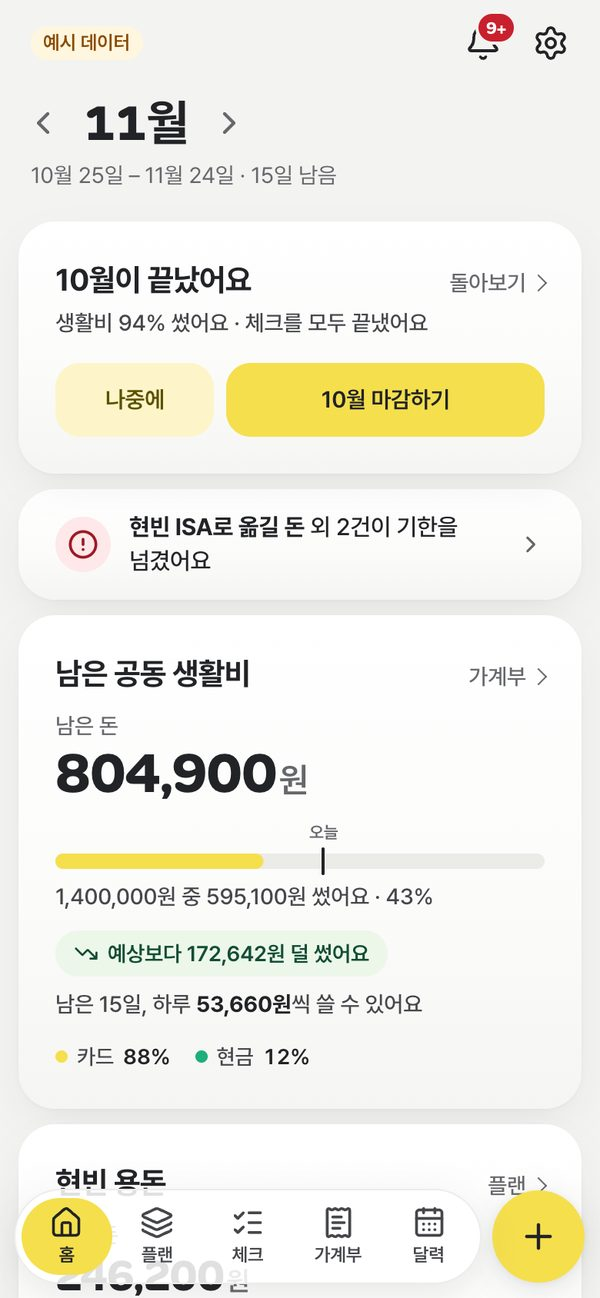
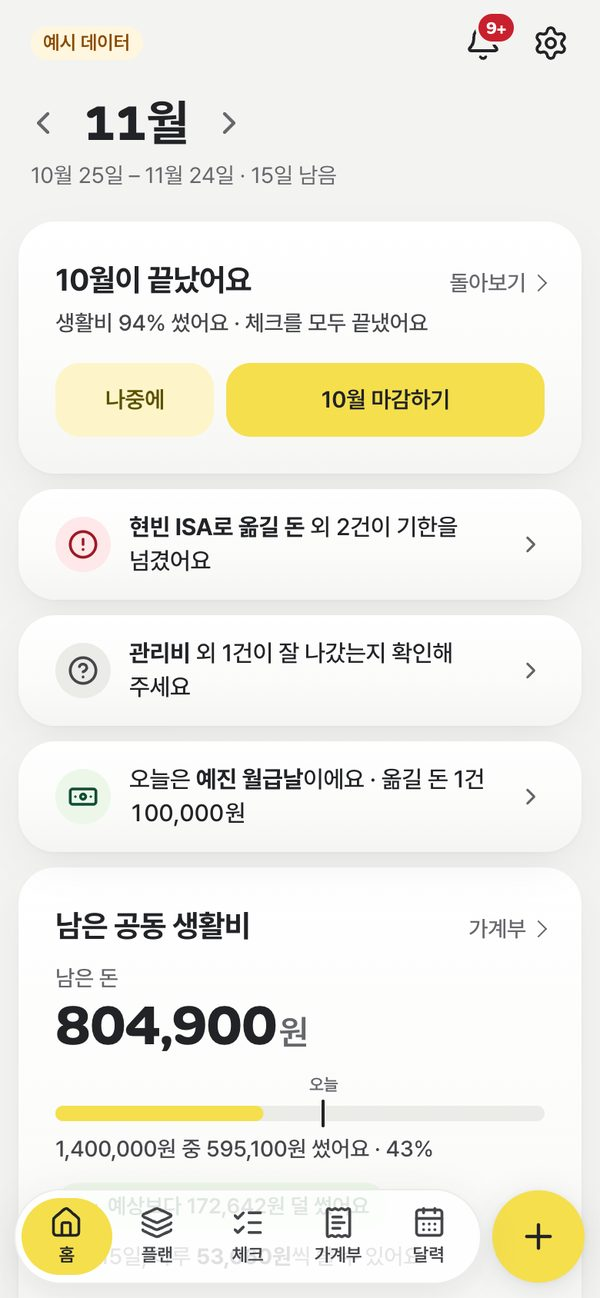
홈 알림을 토스처럼 하나씩 도착하게 — 작은 색 점이 알약을 지나 카드로, 먼저 온 알림은 아래로
- 알림을 하나만 고르던 것을 중요한 순 최대 3개로(기한 넘김 · 확인 부탁 · 오늘 월급날/옮길 돈 · 모두 마침 ·
  생활비 빠름 · 다음 월급날). Nudges 컴포넌트가 덜 중요한 것부터 250ms 뒤·700ms 간격으로 맨 위에 하나씩 넣는다
- 도착 820ms: clip-path 로 12px 점(알림 색) → 44px 알약 → 카드, 색은 카드 바탕으로 바래고 글은 560ms 에 떠오름
- 먼저 온 알림과 아래 카드는 Morph(enter=false) 의 FLIP·상자 높이로 dur-tab·ease-drawer 만큼 내려감
- 앱을 켜 둔 동안 한 번 도착한 알림 종류는 다시 움직이지 않음, 움직임 줄이기면 바로 보임
- 새 컴포넌트 문서·미리보기(Nudges), 디자인 README, DESIGN.md, 변경기록, 스크린샷 2장

diff --git a/apps/web/src/app/page.tsx b/apps/web/src/app/page.tsx
@@ -1,7 +1,7 @@
 "use client";
 
 import Link from "next/link";
-import { ArrowRightLeft, Banknote, CalendarClock, ChevronRight, CircleAlert, CircleCheck, CircleHelp, TrendingUp, type LucideIcon } from "lucide-react";
+import { ArrowRightLeft, Banknote, CalendarClock, CircleAlert, CircleCheck, CircleHelp, TrendingUp } from "lucide-react";
 import { useData } from "@/lib/store";
 import type { Spending } from "@/lib/types";
 import { allowanceStatus, cardBills, livingStatus, nameOf, spendingsIn } from "@/lib/calc";
@@ -19,17 +19,10 @@ import { MiniCard } from "@/components/pass";
 import { usePrimaryAction, useSheets } from "@/components/Shell";
 import { ClosePrompt } from "@/components/ClosePrompt";
 import { Morph } from "@/components/Morph";
+import { Nudges, type Nudge } from "@/components/Nudges";
 
 /** 홈에 보이는 할 일 수 — 급한 순으로 이만큼만, 나머지는 체크 화면에서 */
 const HOME_TODOS = 3;
-
-/** 홈 맨 위 알림 카드 하나 — 색은 상태 알약과 같은 네 가지 */
-interface Nudge {
-  tone: "negative" | "warning" | "positive" | "neutral";
-  icon: LucideIcon;
-  href: string;
-  text: React.ReactNode;
-}
 
 export default function Home() {
   const { data, month, today, me } = useData();
@@ -63,10 +56,12 @@ export default function Home() {
     data.categories.find((c) => c.id === id)?.name ?? (owner === "joint" ? "미분류" : `${nameOf(s, owner)} 용돈`);
   const accName = (id: string | null) => data.accounts.find((a) => a.id === id)?.name;
 
-  // 이번 달에 가장 먼저 알아야 할 것 하나 — 화면 머리 문장 대신 맨 위 알림 카드(토스 홈의 알림 줄처럼). 할 일 카드와 겹치는 "남은 할 일 N건"이면 두지 않는다
-  let nudge: Nudge | null = null;
+  // 지금 알아야 할 것들 — 화면 머리 문장 대신 맨 위 알림 카드(토스 알림처럼 하나씩 도착). 중요한 순, 최대 3개.
+  // 할 일 카드와 겹치는 "남은 할 일 N건"뿐이면 알림을 두지 않는다
+  const nudges: Nudge[] = [];
   if (overdue.length > 0) {
-    nudge = {
+    nudges.push({
+      key: "overdue",
       tone: "negative",
       icon: CircleAlert,
       href: "/check",
@@ -76,10 +71,12 @@ export default function Home() {
           {overdue.length > 1 ? ` 외 ${overdue.length - 1}건이` : iga(overdue[0].kind === "transfer" ? "돈" : overdue[0].title).slice(-1)} 기한을 넘겼어요
         </>
       ),
-    };
-  } else if (asks.length > 0) {
+    });
+  }
+  if (asks.length > 0) {
     // 자동으로 나가는 돈은 다그치지 않고 확인만 부탁한다
-    nudge = {
+    nudges.push({
+      key: "asks",
       tone: "neutral",
       icon: CircleHelp,
       href: "/check",
@@ -89,10 +86,12 @@ export default function Home() {
           {asks.length > 1 ? ` 외 ${asks.length - 1}건이` : iga(asks[0].title).slice(-1)} 잘 나갔는지 확인해 주세요
         </>
       ),
-    };
-  } else if (paydayToday) {
+    });
+  }
+  if (paydayToday) {
     const left = paydayToday.transfers.filter((t) => !t.done);
-    nudge = {
+    nudges.push({
+      key: "payday",
       tone: "positive",
       icon: Banknote,
       href: "/check",
@@ -101,9 +100,10 @@ export default function Home() {
           오늘은 <strong>{nameOf(s, paydayToday.person)} 월급날</strong>이에요 · 옮길 돈 {left.length}건 <Money value={left.reduce((a, t) => a + t.amount, 0)} />
         </>
       ),
-    };
+    });
   } else if (pendingTransfers.length > 0) {
-    nudge = {
+    nudges.push({
+      key: "transfers",
       tone: "neutral",
       icon: ArrowRightLeft,
       href: "/check",
@@ -112,11 +112,12 @@ export default function Home() {
           옮길 돈 <strong>{pendingTransfers.length}건</strong>이 남았어요 · <Money value={pendingTransfers.reduce((a, t) => a + t.amount, 0)} />
         </>
       ),
-    };
-  } else if (open.length === 0 && tasks.length > 0) {
-    nudge = { tone: "positive", icon: CircleCheck, href: "/check", text: <>이번 달 이체와 납부를 모두 마쳤어요</> };
-  } else if (living.pace !== null && living.spent > living.pace) {
-    nudge = {
+    });
+  }
+  if (open.length === 0 && tasks.length > 0) nudges.push({ key: "done", tone: "positive", icon: CircleCheck, href: "/check", text: <>이번 달 이체와 납부를 모두 마쳤어요</> });
+  if (living.pace !== null && living.spent > living.pace) {
+    nudges.push({
+      key: "pace",
       tone: "warning",
       icon: TrendingUp,
       href: "/ledger",
@@ -125,9 +126,12 @@ export default function Home() {
           생활비가 예상보다 <strong>{num(living.spent - living.pace)}원</strong> 빨리 나가고 있어요
         </>
       ),
-    };
-  } else if (nextPayday && nextPayday.transfers.some((t) => !t.done)) {
-    nudge = {
+    });
+  }
+  // 다음 월급날은 옮길 돈 알림이 없을 때만 (같은 이야기)
+  if (!paydayToday && pendingTransfers.length === 0 && nextPayday && nextPayday.transfers.some((t) => !t.done)) {
+    nudges.push({
+      key: "next-payday",
       tone: "neutral",
       icon: CalendarClock,
       href: "/check",
@@ -136,7 +140,7 @@ export default function Home() {
           다음은 <strong>{nameOf(s, nextPayday.person)} 월급날</strong> {shortDate(nextPayday.date)} · {dDay(nextPayday.date, today)}
         </>
       ),
-    };
+    });
   }
 
   return (
@@ -149,15 +153,7 @@ export default function Home() {
           <Morph className="close-slot" track=":scope > *">
             <ClosePrompt />
           </Morph>
-          {nudge && (
-            <Link href={nudge.href} className={`card nudge ${nudge.tone}`}>
-              <span className="ic" aria-hidden="true">
-                <nudge.icon />
-              </span>
-              <span className="t">{nudge.text}</span>
-              <ChevronRight className="chev" aria-hidden="true" />
-            </Link>
-          )}
+          <Nudges items={nudges.slice(0, 3)} />
           <BudgetCard id="living-h" className="o1" bucket="living" title="남은 공동 생활비" status={living} link={{ href: "/ledger", label: "가계부" }} />
 
           <BudgetCard

diff --git a/apps/web/src/components/Nudges.tsx b/apps/web/src/components/Nudges.tsx
@@ -1,0 +1,100 @@
+"use client";
+
+import { useEffect, useLayoutEffect, useRef, useState } from "react";
+import Link from "next/link";
+import { ChevronRight, type LucideIcon } from "lucide-react";
+import { Morph, still } from "./Morph";
+
+/** 홈 맨 위 알림 하나 — 색은 상태 알약과 같은 네 가지 (docs/design-system/components/Nudges) */
+export interface Nudge {
+  /** 알림 종류 — 앱에서 한 번 뜬 종류는 탭을 다시 열어도 다시 뜨는 움직임 없이 그대로 있다 */
+  key: string;
+  tone: "negative" | "warning" | "positive" | "neutral";
+  icon: LucideIcon;
+  href: string;
+  text: React.ReactNode;
+}
+
+/** 이미 뜬 알림 종류 (앱을 켜 둔 동안) */
+const played = new Set<string>();
+
+/** 알림이 하나씩 도착하는 간격과 첫 알림까지의 기다림 (ms) */
+const FIRST = 250;
+const NEXT = 700;
+
+/**
+ * 토스 알림처럼 하나씩 도착하는 알림 카드들.
+ * items 는 중요한 순(맨 위가 가장 중요). 덜 중요한 것부터 차례로 도착해, 새 알림은 맨 위에 작은 점으로 떠서 카드로 커지고
+ * 먼저 와 있던 알림은 그만큼 아래로 내려간다(Morph 의 FLIP). 그래서 다 도착하면 가장 중요한 알림이 맨 위에 있다.
+ * 움직임 줄이기면 모두 바로 보인다.
+ */
+export function Nudges({ items }: { items: Nudge[] }) {
+  const [fresh, setFresh] = useState<string[]>([]);
+  const sig = items.map((n) => n.key).join("|");
+
+  useEffect(() => {
+    const queue = (sig ? sig.split("|") : []).reverse().filter((k) => !played.has(k));
+    if (queue.length === 0) return;
+    const calm = still();
+    const timers = queue.map((k, i) =>
+      window.setTimeout(
+        () => {
+          played.add(k);
+          setFresh((f) => [...f, k]);
+        },
+        calm ? 0 : FIRST + i * NEXT,
+      ),
+    );
+    return () => timers.forEach((t) => window.clearTimeout(t));
+  }, [sig]);
+
+  const shown = items.filter((n) => played.has(n.key) || fresh.includes(n.key));
+  return (
+    <Morph className="nudges" track=":scope > *" enter={false}>
+      {shown.map((n) => (
+        <NudgeCard key={n.key} n={n} grow={fresh.includes(n.key)} />
+      ))}
+    </Morph>
+  );
+}
+
+/** 점 → 알약 → 카드. 모양은 clip-path 로만 바꿔 안의 글자가 늘어나 보이지 않게 하고, 글자는 카드가 거의 다 펴졌을 때 떠오른다 */
+function NudgeCard({ n, grow }: { n: Nudge; grow: boolean }) {
+  const el = useRef<HTMLAnchorElement>(null);
+  const once = useRef(grow);
+  useLayoutEffect(() => {
+    const card = el.current;
+    if (!once.current || !card || still()) return;
+    once.current = false;
+    const cs = getComputedStyle(card);
+    const r = cs.borderTopLeftRadius || "24px";
+    const dot = "inset(calc(50% - 6px) calc(50% - 6px) round 999px)";
+    // 점이 톡 나타나 잠깐 머물고 → 옆으로 펴져 알약 → 아래위로 펴져 카드
+    card.animate(
+      [
+        { clipPath: dot, transform: "scale(0.6)", opacity: 0 },
+        { clipPath: dot, transform: "scale(1)", opacity: 1, offset: 0.14 },
+        { clipPath: dot, transform: "scale(1)", offset: 0.26 },
+        { clipPath: "inset(calc(50% - 22px) 0 round 999px)", transform: "scale(0.985)", offset: 0.58 },
+        { clipPath: `inset(0 round ${r})`, transform: "none" },
+      ],
+      { duration: 820, easing: "cubic-bezier(0.32, 0.72, 0, 1)" },
+    );
+    // 점은 알림 색(빨강·주황·초록·회색)으로 보이다가 카드가 펴지며 카드 바탕으로 바뀐다
+    card.querySelector(".nudge-dot")?.animate([{ opacity: 1 }, { opacity: 1, offset: 0.3 }, { opacity: 0, offset: 0.62 }, { opacity: 0 }], { duration: 820, easing: "ease-out" });
+    for (const c of card.querySelectorAll(":scope > :not(.nudge-dot)")) {
+      (c as HTMLElement).animate([{ opacity: 0, transform: "translateY(4px)" }, { opacity: 1, transform: "none" }], { duration: 240, delay: 560, easing: "ease-out", fill: "backwards" });
+    }
+  }, []);
+  const Icon = n.icon;
+  return (
+    <Link ref={el} href={n.href} className={`card nudge ${n.tone}`}>
+      <span className="nudge-dot" aria-hidden="true" />
+      <span className="ic" aria-hidden="true">
+        <Icon />
+      </span>
+      <span className="t">{n.text}</span>
+      <ChevronRight className="chev" aria-hidden="true" />
+    </Link>
+  );
+}

diff --git a/docs/design-system/components/Nudges/preview.html b/docs/design-system/components/Nudges/preview.html
@@ -1,0 +1,58 @@
+<!-- @dsCard group="Cards" height=300 subtitle="홈 알림 — 작은 점이 커져 카드가 되고, 새 알림이 오면 먼저 온 알림이 내려가요 (다시 보기를 누르세요)" -->
+<link rel="stylesheet" href="https://fonts.googleapis.com/css2?family=Alan+Sans:wght@300..900&family=Noto+Sans+KR:wght@400..800&display=swap">
+<style>
+  body { margin: 0; background: var(--ground); color: var(--text); font-family: var(--font-text); word-break: keep-all; -webkit-font-smoothing: antialiased; }
+  .stage { max-width: 390px; padding: 20px; }
+  .stack { display: grid; gap: 10px; }
+  .n { position: relative; display: grid; grid-template-columns: 36px 1fr 18px; align-items: center; gap: 12px; padding: 14px 20px; border-radius: var(--radius-card); background: var(--surface); box-shadow: var(--shadow-card); font: 500 15.5px/22px var(--font-text); }
+  .n b { font-weight: 700; }
+  .ic { display: grid; place-items: center; width: 36px; height: 36px; border-radius: 999px; font-weight: 700; }
+  .neg .ic { background: var(--pill-negative-bg); color: var(--pill-negative-ink); }
+  .neu .ic { background: var(--pill-neutral-bg); color: var(--pill-neutral-ink); }
+  .pos .ic { background: var(--pill-positive-bg); color: var(--pill-positive-ink); }
+  .dot { position: absolute; inset: 0; border-radius: inherit; opacity: 0; }
+  .neg .dot { background: var(--negative); } .neu .dot { background: var(--pill-neutral-ink); } .pos .dot { background: var(--pill-positive-ink); }
+  .chev { color: var(--faint); }
+  button.again { margin-top: 14px; height: 36px; padding: 0 14px; border: 0; border-radius: 999px; background: var(--well); color: var(--muted); font: 600 13.5px var(--font-text); }
+</style>
+<div class="stage">
+  <div class="stack" id="s"></div>
+  <button class="again" type="button" id="a">다시 보기</button>
+</div>
+<script>
+  const N = [
+    ["neg", "!", "<b>현빈 ISA로 옮길 돈</b> 외 2건이 기한을 넘겼어요"],
+    ["neu", "?", "<b>관리비</b> 외 1건이 잘 나갔는지 확인해 주세요"],
+    ["pos", "₩", "오늘은 <b>예진 월급날</b>이에요 · 옮길 돈 1건"],
+  ];
+  const s = document.getElementById("s");
+  let timers = [];
+  function arrive(n) {
+    const el = document.createElement("div");
+    el.className = "n " + n[0];
+    el.innerHTML = `<span class="dot"></span><span class="ic">${n[1]}</span><span>${n[2]}</span><span class="chev">›</span>`;
+    const before = [...s.children].map((c) => c.getBoundingClientRect().top);
+    s.prepend(el);
+    [...s.children].slice(1).forEach((c, i) => {
+      const d = before[i] - c.getBoundingClientRect().top;
+      c.animate([{ transform: `translateY(${d}px)` }, { transform: "none" }], { duration: 420, easing: "cubic-bezier(0.32, 0.72, 0, 1)" });
+    });
+    const dot = "inset(calc(50% - 6px) calc(50% - 6px) round 999px)";
+    el.animate([
+      { clipPath: dot, transform: "scale(0.6)", opacity: 0 },
+      { clipPath: dot, transform: "scale(1)", opacity: 1, offset: 0.14 },
+      { clipPath: dot, offset: 0.26 },
+      { clipPath: "inset(calc(50% - 22px) 0 round 999px)", transform: "scale(0.985)", offset: 0.58 },
+      { clipPath: "inset(0 round 24px)", transform: "none" },
+    ], { duration: 820, easing: "cubic-bezier(0.32, 0.72, 0, 1)" });
+    el.querySelector(".dot").animate([{ opacity: 1 }, { opacity: 1, offset: 0.3 }, { opacity: 0, offset: 0.62 }, { opacity: 0 }], { duration: 820 });
+    [...el.children].slice(1).forEach((c) => c.animate([{ opacity: 0, transform: "translateY(4px)" }, { opacity: 1, transform: "none" }], { duration: 240, delay: 560, fill: "backwards" }));
+  }
+  function play() {
+    timers.forEach(clearTimeout);
+    s.innerHTML = "";
+    timers = [...N].reverse().map((n, i) => setTimeout(() => arrive(n), 250 + i * 700));
+  }
+  document.getElementById("a").onclick = play;
+  play();
+</script>

diff --git a/apps/web/src/app/cards.css b/apps/web/src/app/cards.css
@@ -239,8 +239,11 @@
 .highlight .reward b { font: 700 20px/28px var(--font-display); font-variant-numeric: tabular-nums; }
 .highlight .reward > span { color: var(--faint); font: 500 14.5px/20px var(--font-text); }
 
-/* ---------- 홈 맨 위 알림 카드 (Nudge): 화면 머리 문장 대신. 아이콘 원 · 한 줄 · › ---------- */
-.nudge { display: grid; grid-template-columns: 36px minmax(0, 1fr) 18px; align-items: center; gap: 12px; padding-block: 14px; color: var(--text); transition: transform var(--dur-press) var(--ease-press); }
+/* ---------- 홈 맨 위 알림 (Nudges): 화면 머리 문장 대신. 아이콘 원 · 한 줄 · ›, 토스 알림처럼 하나씩 도착 ----------
+   빈 자리는 칸 간격까지 0 (close-slot 과 같은 방식): 알림이 오면 그만큼 아래 카드가 내려간다 */
+.nudges { display: flow-root; margin-bottom: calc(var(--gap) * -1); }
+.nudges > .nudge { margin-bottom: var(--gap); }
+.nudge { position: relative; display: grid; grid-template-columns: 36px minmax(0, 1fr) 18px; align-items: center; gap: 12px; padding-block: 14px; color: var(--text); transition: transform var(--dur-press) var(--ease-press); }
 .nudge:active { transform: scale(0.98); }
 .nudge .ic { display: grid; place-items: center; width: 36px; height: 36px; border-radius: var(--radius-chip); background: var(--pill-neutral-bg); color: var(--pill-neutral-ink); }
 .nudge .ic svg { width: 20px; height: 20px; stroke-width: 2.2; }
@@ -250,6 +253,11 @@
 .nudge .t { font: 500 15.5px/22px var(--font-text); letter-spacing: -0.01em; }
 .nudge .t strong { font-weight: 700; }
 .nudge .chev { width: 18px; height: 18px; color: var(--faint); }
+/* 도착할 때 점의 색 (평소엔 보이지 않음) */
+.nudge-dot { position: absolute; inset: 0; border-radius: inherit; background: var(--pill-neutral-ink); opacity: 0; pointer-events: none; }
+.nudge.negative .nudge-dot { background: var(--negative); }
+.nudge.warning .nudge-dot { background: var(--pill-warning-ink); }
+.nudge.positive .nudge-dot { background: var(--pill-positive-ink); }
 @media (prefers-reduced-motion: reduce) {
   .nudge { transition: none; }
 }

diff --git a/docs/design-system/components/Nudges/README.md b/docs/design-system/components/Nudges/README.md
@@ -1,0 +1,35 @@
+# Nudges — 홈 맨 위 알림
+
+홈 화면 머리 문장 대신, 지금 알아야 할 것을 **토스 알림처럼 하나씩 도착하는 카드**로 보여 줍니다. 화면 머리에는 달과 기간만 둡니다(README "글자").
+
+## 무엇을 띄우나 (중요한 순, 최대 3개)
+| 알림 | 색 | 아이콘 | 누르면 |
+|---|---|---|---|
+| "현빈 ISA로 옮길 돈 외 2건이 기한을 넘겼어요" | `negative` | `CircleAlert` | 체크 |
+| "관리비 외 1건이 잘 나갔는지 확인해 주세요" (자동 납부) | `neutral` | `CircleHelp` | 체크 |
+| "오늘은 예진 월급날이에요 · 옮길 돈 1건 100,000원" | `positive` | `Banknote` | 체크 |
+| 월급날이 아니면 "옮길 돈 2건이 남았어요 · 600,000원" | `neutral` | `ArrowRightLeft` | 체크 |
+| "이번 달 이체와 납부를 모두 마쳤어요" | `positive` | `CircleCheck` | 체크 |
+| "생활비가 예상보다 120,000원 빨리 나가고 있어요" | `warning` | `TrendingUp` | 가계부 |
+| 옮길 돈 알림이 없을 때만 "다음은 현빈 월급날 11/25 · D-15" | `neutral` | `CalendarClock` | 체크 |
+
+할 일 카드와 겹치는 "남은 할 일 N건"뿐이면 알림을 두지 않습니다.
+
+## 카드
+- 흰 카드(`surface-card`, `shadow-card`), 위아래 14px. 아이콘 원(36px, 상태 알약과 같은 `pill-*-bg` 바탕·`pill-*-ink` 아이콘) · 한 줄(15.5px/500, 강조는 700) · `ChevronRight`(`faint`).
+- 카드 사이와 아래 카드까지는 `gap`. 알림이 없으면 자리와 간격까지 0입니다(ClosePrompt와 같은 방식).
+
+## 도착
+1. 덜 중요한 알림부터 차례로 도착합니다(첫 알림은 250ms 뒤, 다음은 700ms 간격). 새 알림은 늘 맨 위에 생기므로 다 도착하면 가장 중요한 알림이 맨 위입니다.
+2. **점 → 알약 → 카드 (820ms):** 카드 가운데에 알림 색(빨강·주황·초록·회색)의 12px 점이 톡 나타나 잠깐 머물고(0–26%), 옆으로 펴져 44px 알약이 되고(58%), 아래위로 펴져 카드가 됩니다. 모양은 `clip-path`로만 바꿔 글자가 늘어나 보이지 않습니다. 색은 카드가 펴지며 카드 바탕으로 바래고(30–62%), 아이콘과 글은 거의 다 펴졌을 때(560ms) 4px 아래에서 떠오릅니다.
+3. **먼저 온 알림은 아래로:** 새 알림 자리만큼 먼저 온 알림과 아래 카드들이 `dur-tab`·`ease-drawer`로 내려갑니다(`Morph`의 FLIP과 상자 높이).
+4. 앱을 켜 둔 동안 한 번 도착한 알림 종류는 탭을 다시 열어도 다시 움직이지 않고 그대로 있습니다. 사라진 알림은 `Morph`가 흐리게 지우고 아래 알림이 올라옵니다.
+5. 움직임 줄이기면 모두 바로 보입니다.
+
+## 하지 말 것
+- 알림을 4개 이상 쌓지 않습니다.
+- 점·알약 단계에서 글자를 보이지 않습니다(늘어나 보임).
+- 같은 알림을 탭을 열 때마다 다시 도착시키지 않습니다.
+
+## 앱
+- `components/Nudges.tsx`(목록·도착 순서), 고르는 규칙은 `app/page.tsx`, 스타일은 `app/cards.css`의 `.nudges`·`.nudge`.

diff --git a/docs/design-system/README.md b/docs/design-system/README.md
@@ -93,7 +93,7 @@
   - **돈의 방향은 부호로 씁니다(토스·은행 앱처럼):** 지출 한 건과 나갈 돈(카드값·고정비·저축 이체) 줄은 `−89,000원`(글자색 그대로), 들어올 돈(월급날)은 `+3,800,000원`을 `positive`로 씁니다. 달력 칸의 월급날도 `+380만`을 `positive`로 둡니다. 합계·예산·남은 돈처럼 방향이 아닌 양은 부호 없이 씁니다.
 - 답 숫자 뒤의 "원"은 숫자의 0.62em, 굵기 600, `faint`입니다.
 - 한글은 `word-break: keep-all`로 단어째 줄을 바꿉니다.
-- 제목은 `large-title` → 기간 줄 `subhead`(`faint`)입니다. **결론은 화면 머리에 문장으로 띄우지 않고 첫 카드 안에** 둡니다(토스·뱅크샐러드의 요약 카드처럼): 체크는 요약 카드(남은 건수), 플랜은 "월급이 나뉘는 곳"(수입과 남은 돈), 가계부는 누적 지출 카드. 머리 문장은 카드 밖이라 글자 폭만큼만 차지해 아래 카드들과 줄이 맞지 않습니다. 홈은 "지금 가장 먼저 알아야 할 것" 하나를 맨 위 **알림 카드**(아이콘 원 · 한 줄 · ›)로 둡니다: 기한 넘긴 일(`negative`, `CircleAlert`) → 잘 나갔는지 확인(`neutral`, `CircleHelp`) → 오늘 월급날(`positive`, `Banknote`) → 옮길 돈 남음(`neutral`) → 모두 마침(`positive`) → 생활비 빠름(`warning`, `TrendingUp`, 가계부로) → 다음 월급날(`neutral`) 순서로 하나만 고르고, 누르면 체크(생활비는 가계부)로 갑니다. 아이콘 원 색은 상태 알약(`pill-*-bg`·`pill-*-ink`)과 같습니다. 할 일 카드와 겹치는 "남은 할 일 N건"뿐이면 카드를 두지 않습니다.
+- 제목은 `large-title` → 기간 줄 `subhead`(`faint`)입니다. **결론은 화면 머리에 문장으로 띄우지 않고 첫 카드 안에** 둡니다(토스·뱅크샐러드의 요약 카드처럼): 체크는 요약 카드(남은 건수), 플랜은 "월급이 나뉘는 곳"(수입과 남은 돈), 가계부는 누적 지출 카드. 머리 문장은 카드 밖이라 글자 폭만큼만 차지해 아래 카드들과 줄이 맞지 않습니다. 홈은 지금 알아야 할 것들을 맨 위 **알림 카드**(아이콘 원 · 한 줄 · ›)로 둡니다. 토스 알림처럼 하나씩 도착하고, 작은 점이 커져 카드가 되며, 새 알림이 오면 먼저 온 알림이 아래로 내려갑니다([Nudges](components/Nudges/README.md)).
 - 자주 안 쓰는 화면 단위 행동(예: 플랜 "다른 달에서 항목 가져오기")은 머리에 버튼으로 두지 않고 화면 맨 아래 한 줄 카드(아이콘 · 제목 · 설명 · ›)로 둡니다.
 - **웹 앱에서 Alan Sans 쓰기:** `font-src 'self'` CSP 때문에 Google Fonts에서 직접 불러올 수 없습니다. 앱은 숫자·영문·돈 기호(−, –, ·, ×)만 남긴 woff2(24KB, 굵기 300–900 가변, `tnum` 포함)를 `/fonts/alan-sans/`에 두고 미리 불러옵니다(SIL OFL 1.1). 이 가이드의 미리보기는 Google Fonts에서 불러옵니다.
 

diff --git a/CHANGELOG.md b/CHANGELOG.md
@@ -16,7 +16,7 @@
 - 플랜 "월급이 나뉘는 곳"은 원형 그래프 대신 **수입을 큰 숫자로** 쓰고, 그 아래 한 줄로 쌓은 막대(주황 고정비 · 노랑 생활비 · 파랑 용돈 · 초록 저축 · 회색 남음)와 금액 목록을 둬요. 이름을 누르면 막대에서 그 조각만 남고 항목이 펼쳐져요. "모으는 목표" 막대와 달력 모아 보기의 할 일 막대(초록이던 것)도 예산 막대와 같은 노랑 막대로 맞췄고, 기간 모아 보기의 "이 기간 쓴 돈" 카드는 그라데이션 없이 옅은 노랑 한 색이에요.
 - 체크와 플랜 맨 위가 토스·뱅크샐러드처럼 바뀌었어요. 화면 머리에는 달과 기간만 두고, 체크는 첫 카드에 **"11건 남았어요"**와 막대, 남은 묶음 줄(옮길 돈 2건 · 600,000원 ›…)을 둬요 — 줄을 누르면 그 카드로 내려가요. 플랜은 "월급이 나뉘는 곳" 카드가 "926,100원 남았어요"를 말하고, "다른 달에서 불러오기"는 화면 맨 아래 한 줄 카드 "다른 달에서 항목 가져오기"로 옮겼어요.
 - 홈 "이번 달 할 일"이 체크 요약과 같은 모양이 됐어요: 큰 숫자 **"11건 남았어요"**와 막대, 기한 지난 일 한 줄, 그리고 급한 순 **3건만** 보여요(전엔 6건). 나머지는 맨 아래 "남은 일 11건 모두 보기 ›"로 체크에서 봐요. 달력의 메뉴 버튼은 달 제목 왼쪽에서 제목 줄 오른쪽 끝으로 옮기고, 아이콘 아래 "모아보기" 이름을 붙였어요.
-- 홈 맨 위의 결론 문장("현빈 ISA로 옮길 돈 외 2건이 기한을 넘겼어요.")을 **알림 카드**로 바꿨어요. 아이콘 원(기한 넘김은 빨강, 생활비가 빠르면 주황, 월급날·모두 마침은 초록)과 한 줄, ›가 있고 누르면 체크(생활비는 가계부)로 가요. 할 일 카드와 겹치는 "남은 할 일 N건"뿐이면 카드를 두지 않아요. 이제 모든 화면 머리에는 달과 기간만 있어요.
+- 홈 맨 위의 결론 문장("현빈 ISA로 옮길 돈 외 2건이 기한을 넘겼어요.")을 토스처럼 **하나씩 도착하는 알림 카드**로 바꿨어요. 지금 알아야 할 것(기한 넘김 · 잘 나갔는지 확인 · 오늘 월급날/옮길 돈 · 모두 마침 · 생활비 빠름 · 다음 월급날)을 최대 3개까지, 작은 색 점이 옆으로 펴지고 카드로 커지며 도착하고, 다음 알림이 오면 먼저 온 알림이 아래로 내려가요(가장 중요한 알림이 맨 위). 앱을 켜 둔 동안 한 번만 움직이고, 누르면 체크(생활비는 가계부)로 가요. 이제 모든 화면 머리에는 달과 기간만 있어요.
 - **DB 이전:** 없음
 
 - 가계부 누적 그래프를 누르면 뜨는 날짜별 금액 말풍선이 그래프 안쪽에 떠요. 위 글자를 가리지 않고, 선과 오늘 점을 덜 가리는 자리(왼쪽·오른쪽, 위·아래)를 골라요.
